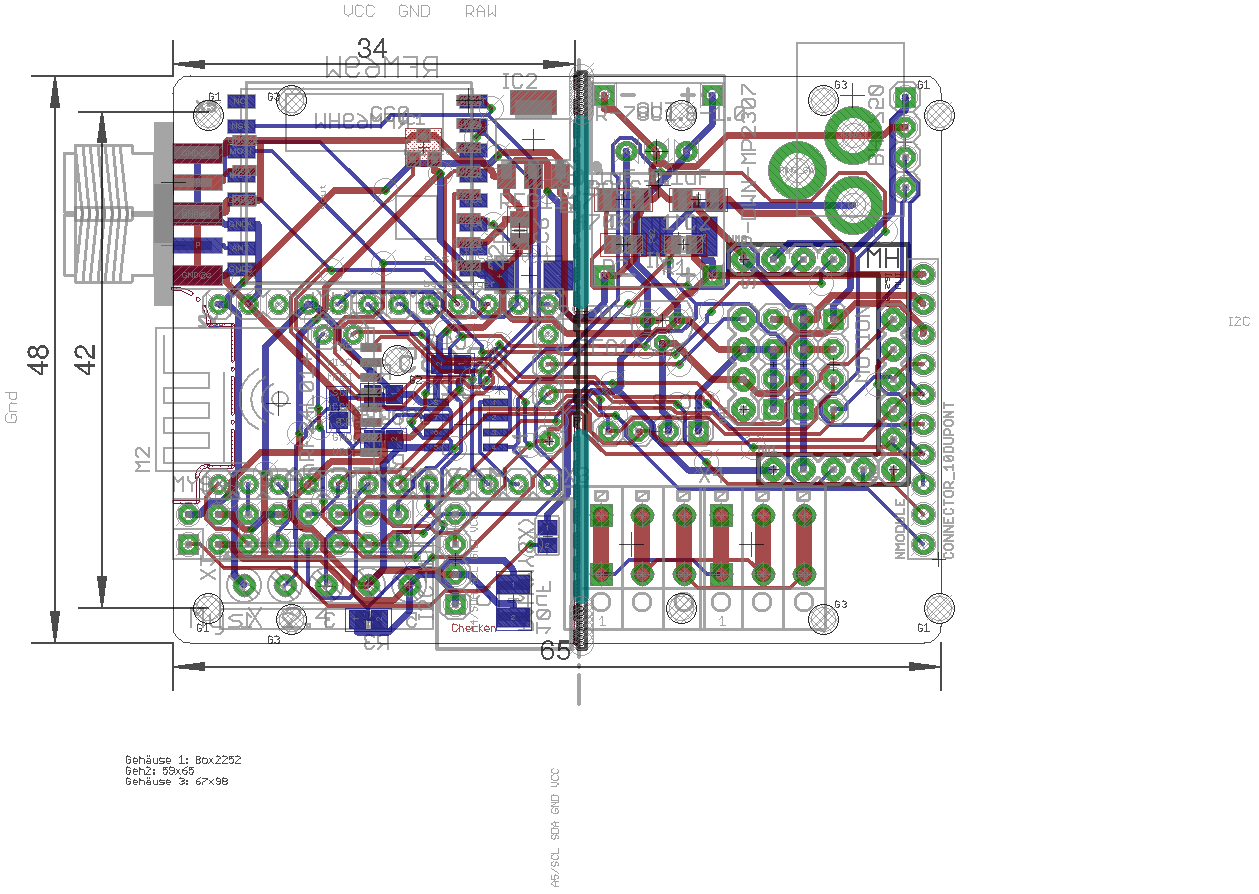
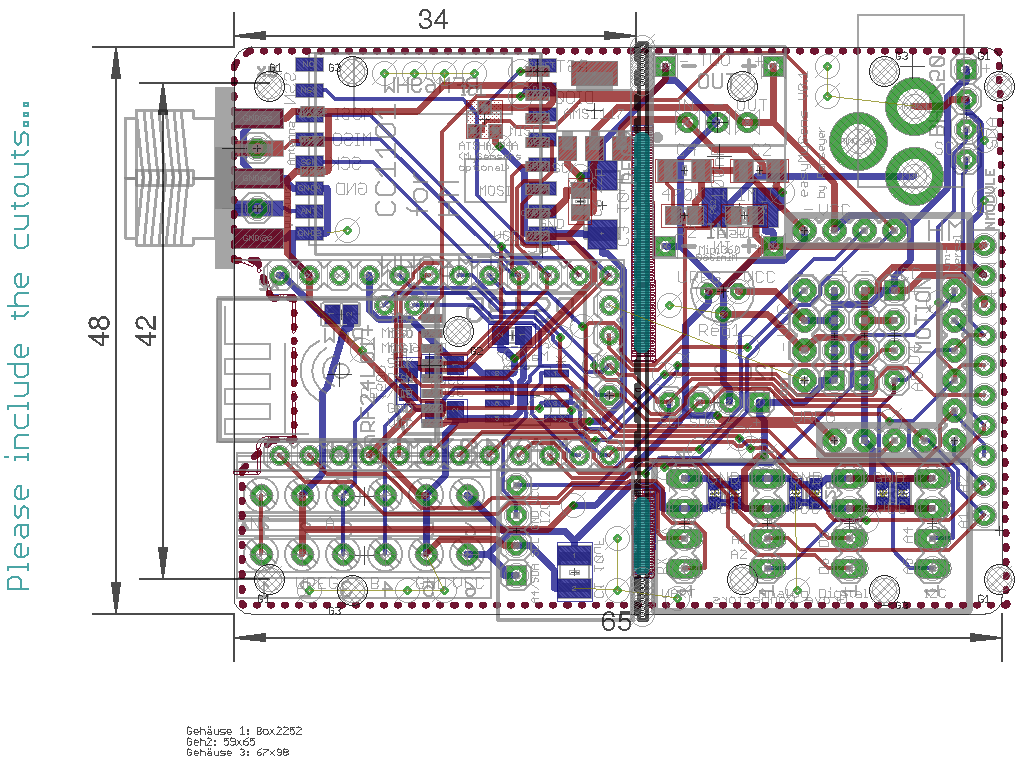
More docu

diff --git a/MySensors-HM-easy-RFM-NRF-CC1101-RS485/README.md b/MySensors-HM-easy-RFM-NRF-CC1101-RS485/README.md
@@ -14,11 +14,11 @@ Connectors for
 3) Grove Connectors but in 2,54mm raster 
 4) Connector for screws or clamping 
 5) more Sensors (I2C or Digital pin with Interupt) 
-
+6) ATSHA204 (SMD solder)
  
 Power via 
 1) Step-Up 
-2) Down 
+2) Step-Down ("mini360")
 3) Linear-Regulator 
 
 
@@ -31,6 +31,12 @@ Many options with many drills
 
 Status 
 Alpha, not tested. 
+
+
+
+Important Hint:
+
+Most Parts are optional. Use only what you need!
 
  
 Changes / Known Bugs: 
